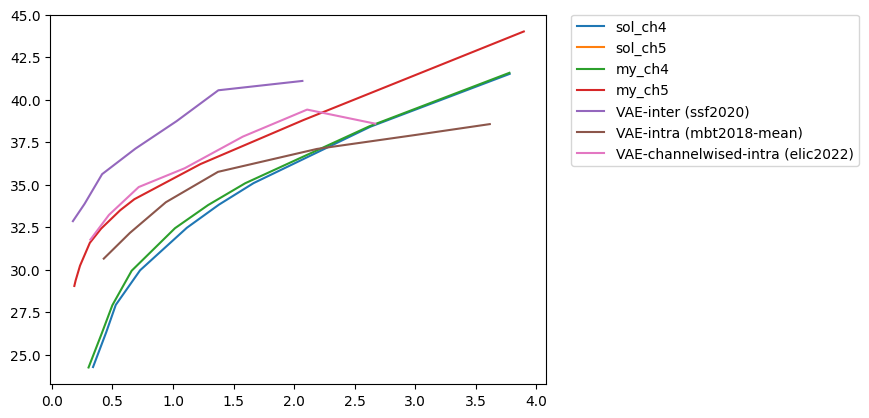
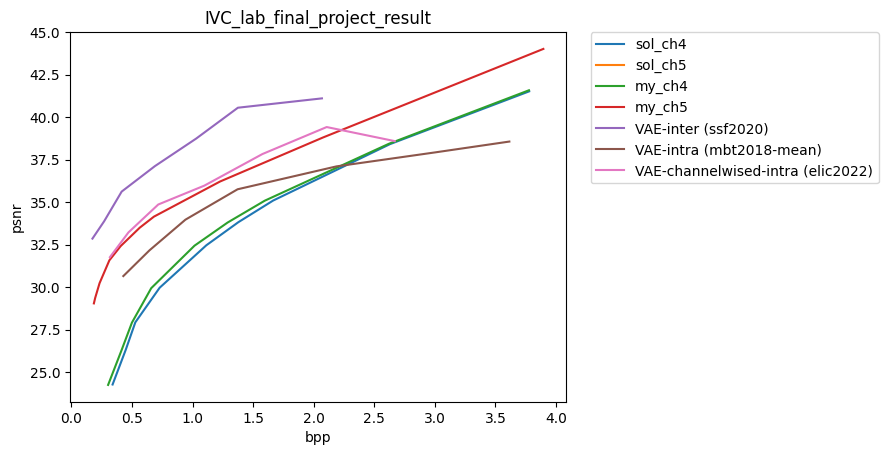
update rd-plot

diff --git a/IVC_Lab_result/IVC_lab_final_result.py b/IVC_Lab_result/IVC_lab_final_result.py
@@ -55,6 +55,8 @@ plt.plot(mbt2018_mean_bpp, mbt2018_mean_psnr)
 plt.plot(elic2022_bpp, elic2022_psnr)
 
 plt.legend(my_legend, bbox_to_anchor=(1.05, 1.0), borderaxespad=0, loc=2)
-
+plt.xlabel('bpp')
+plt.ylabel('psnr')
+plt.title("IVC_lab_final_project_result")
 plt.savefig("./IVC_final_project_result.png", bbox_inches='tight')
 plt.clf()
